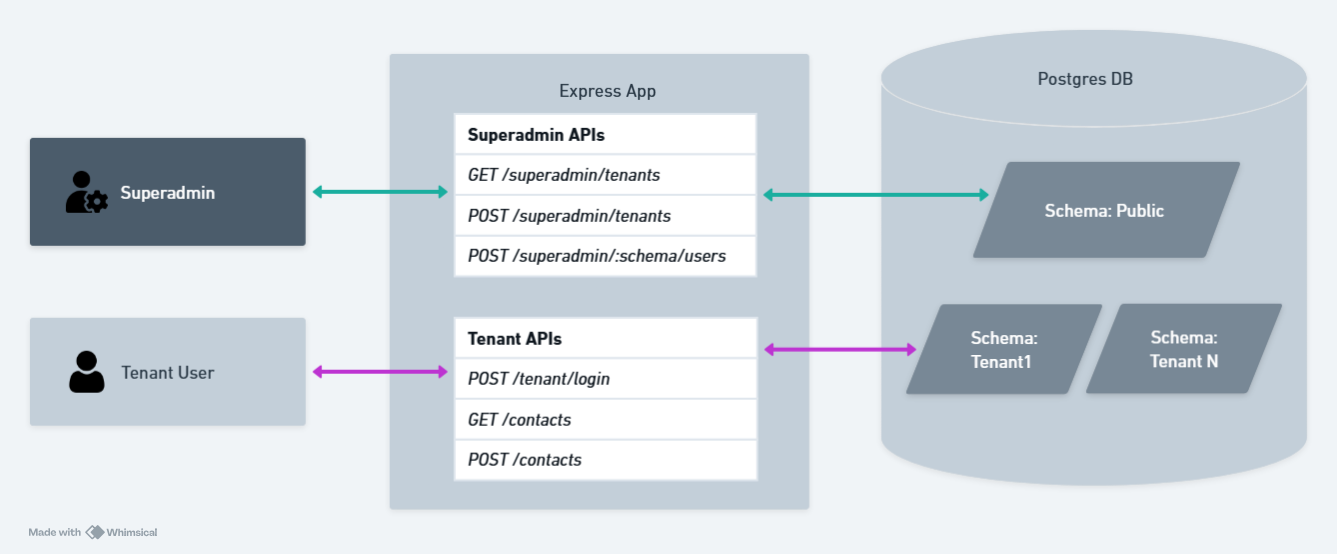
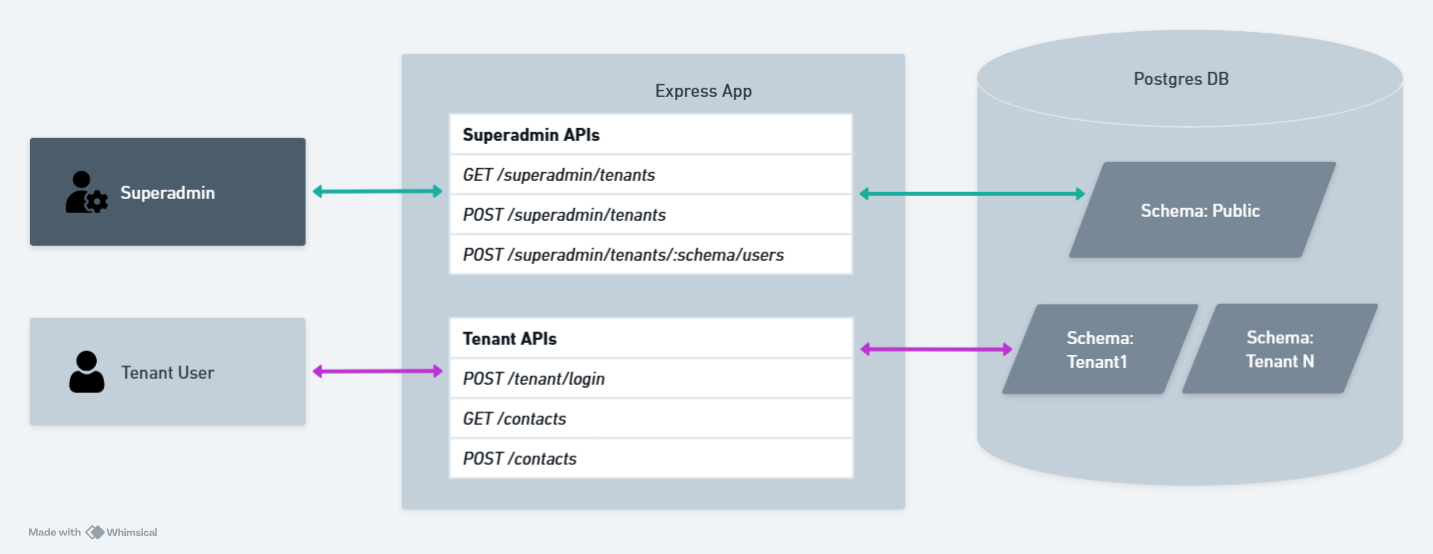
Siva | update Readme files

diff --git a/shared-db-shared-schema/README.md b/shared-db-shared-schema/README.md
@@ -2,6 +2,8 @@
 
 A multi-tenant API built with Node.js, Express, PostgreSQL, and Prisma, using a shared schema model. All tenant data resides in common database tables (public schema), with logical isolation using a tenantId field. This architecture simplifies management while supporting multi-tenant functionality.
 
+![Architecture](../media/shared-db-shared-schema-architecture.png)
+
 ## Features
 - **Multi-tenancy with shared schema**:  All data is stored in common tables and isolated logically via tenantId.
 - **Superadmin management**: Create and list tenants, and create users for any tenant.
